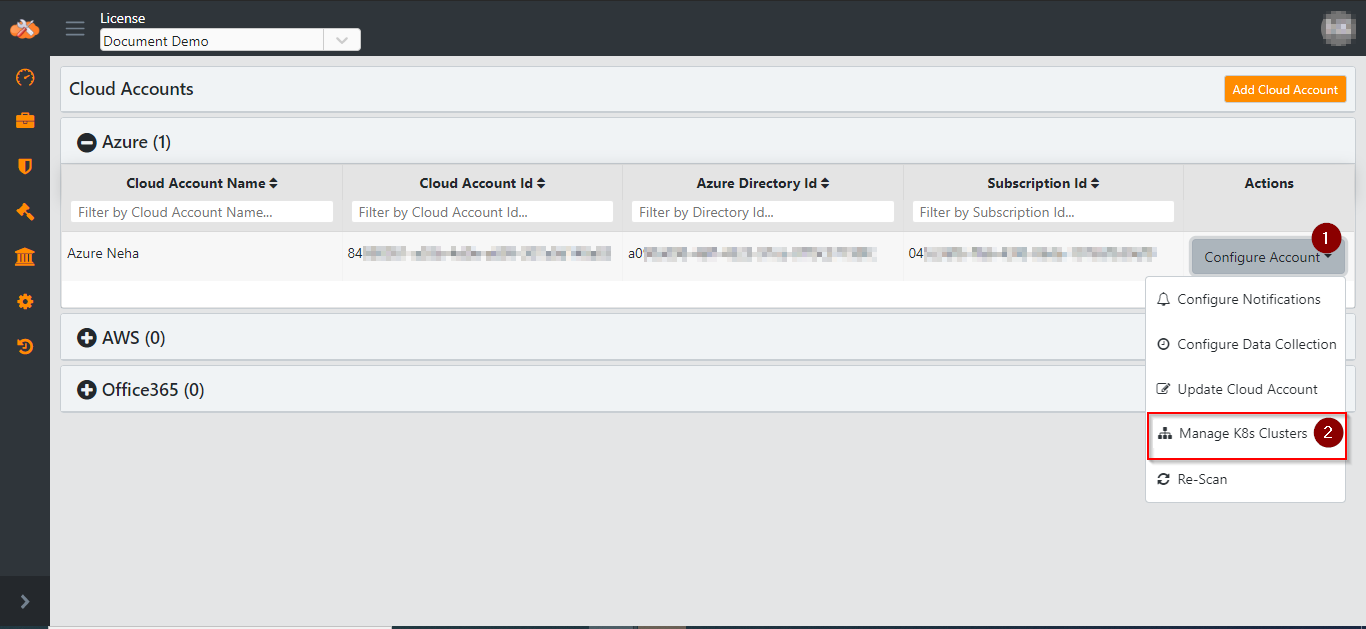
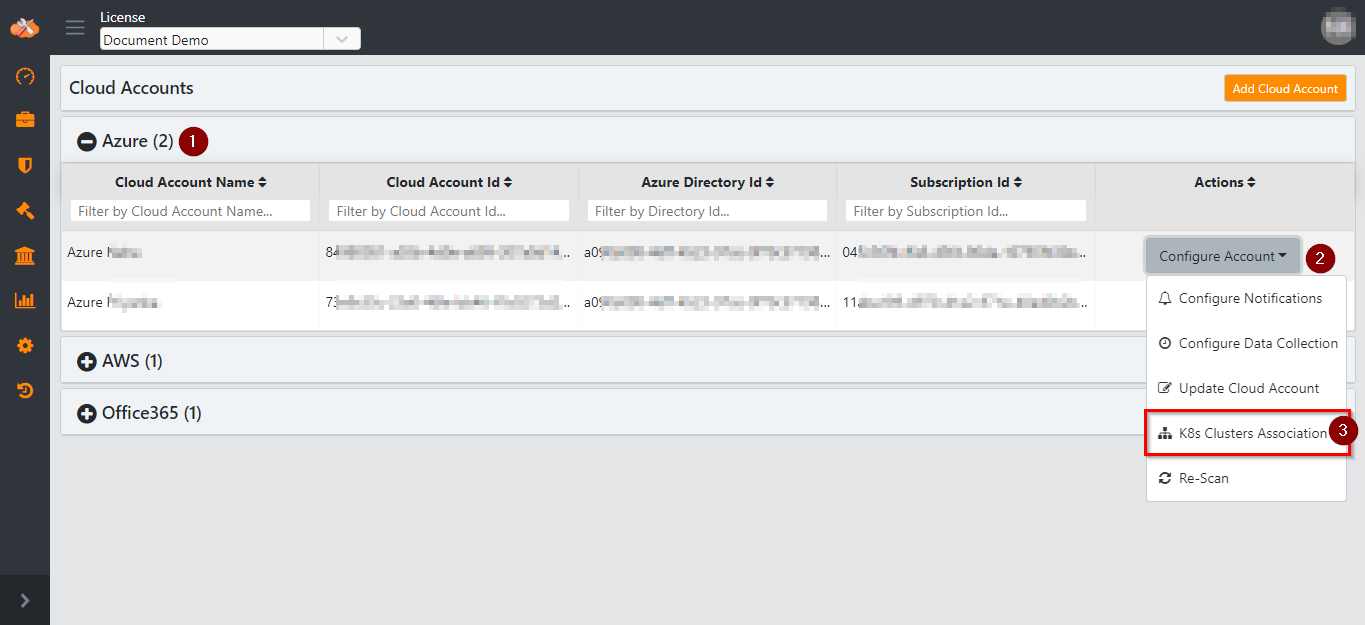
Task 15054 Updated screenshot as per UI

diff --git a/docs/onboardingGuide/configureCloudneetiAgentInAKS.md b/docs/onboardingGuide/configureCloudneetiAgentInAKS.md
@@ -29,10 +29,12 @@ Login to Cloudneeti portal with **License Admin** role
 
     ![Associate Kubernetes](.././images/kubernetes/CN_ManageAccounts_1.png#thumbnail)
 
-2.  Click **Configure** Accounts for the Cloud account where Kubernetes Cluster
+2.  Expand Azure (1) section
+
+3.  Click **Configure Accounts** (2) for the Cloud account where Kubernetes Cluster
     is to be associated.
 
-3.  Click **Manage K8s Clusters**
+3.  Click **Manage K8s Clusters** (3)
 
     ![Associate Kubernetes](.././images/kubernetes/CN_ManageK8Cluster_2.png#thumbnail)
 
